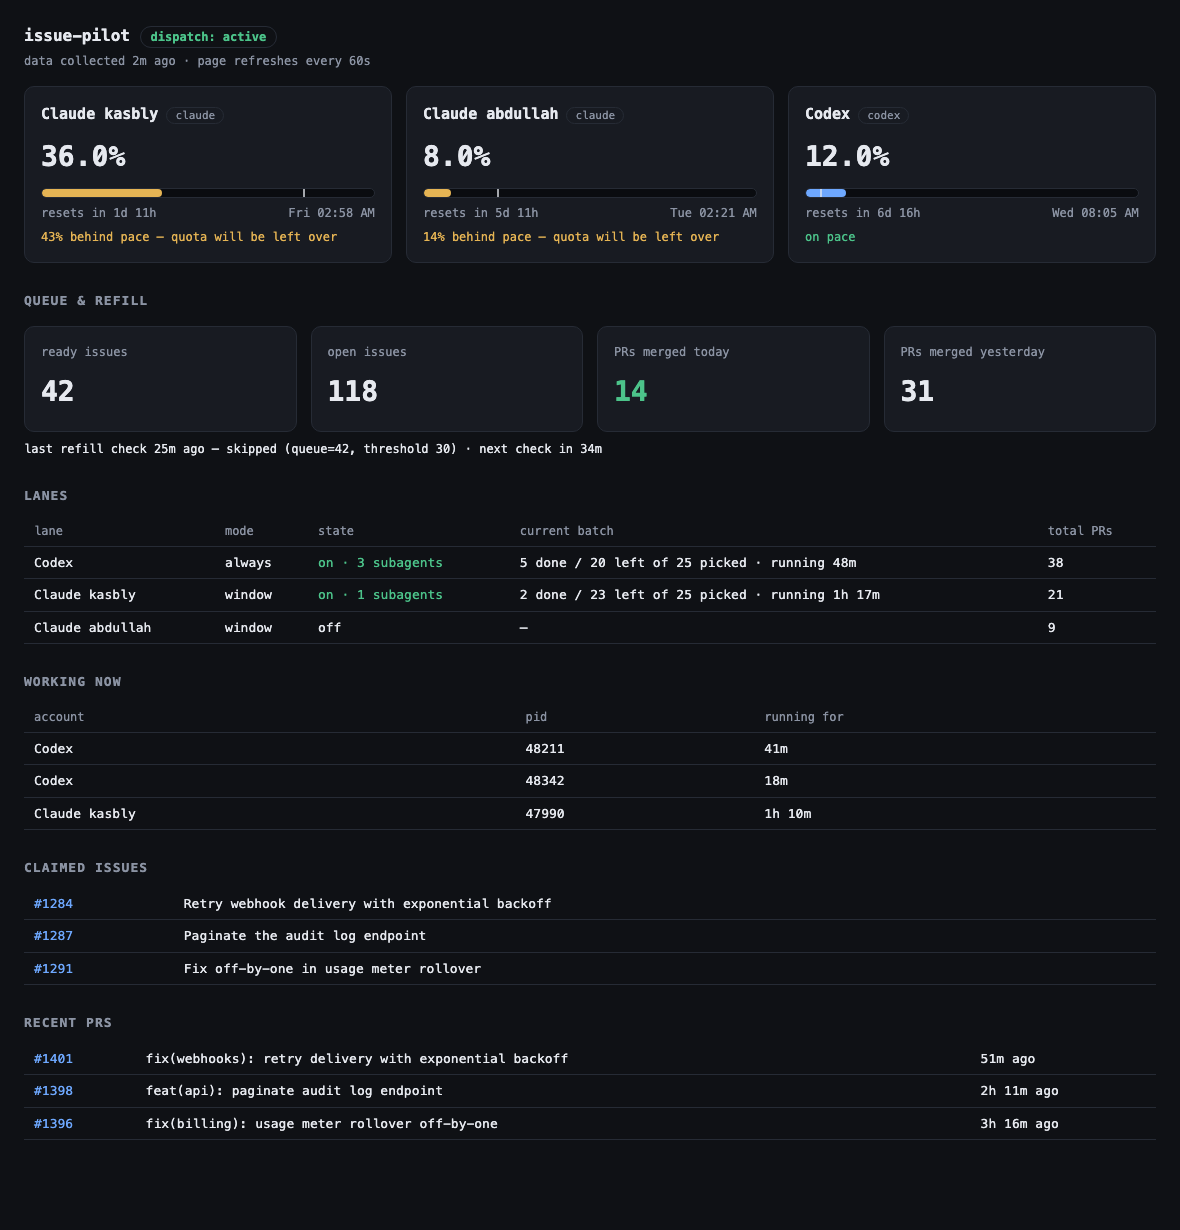
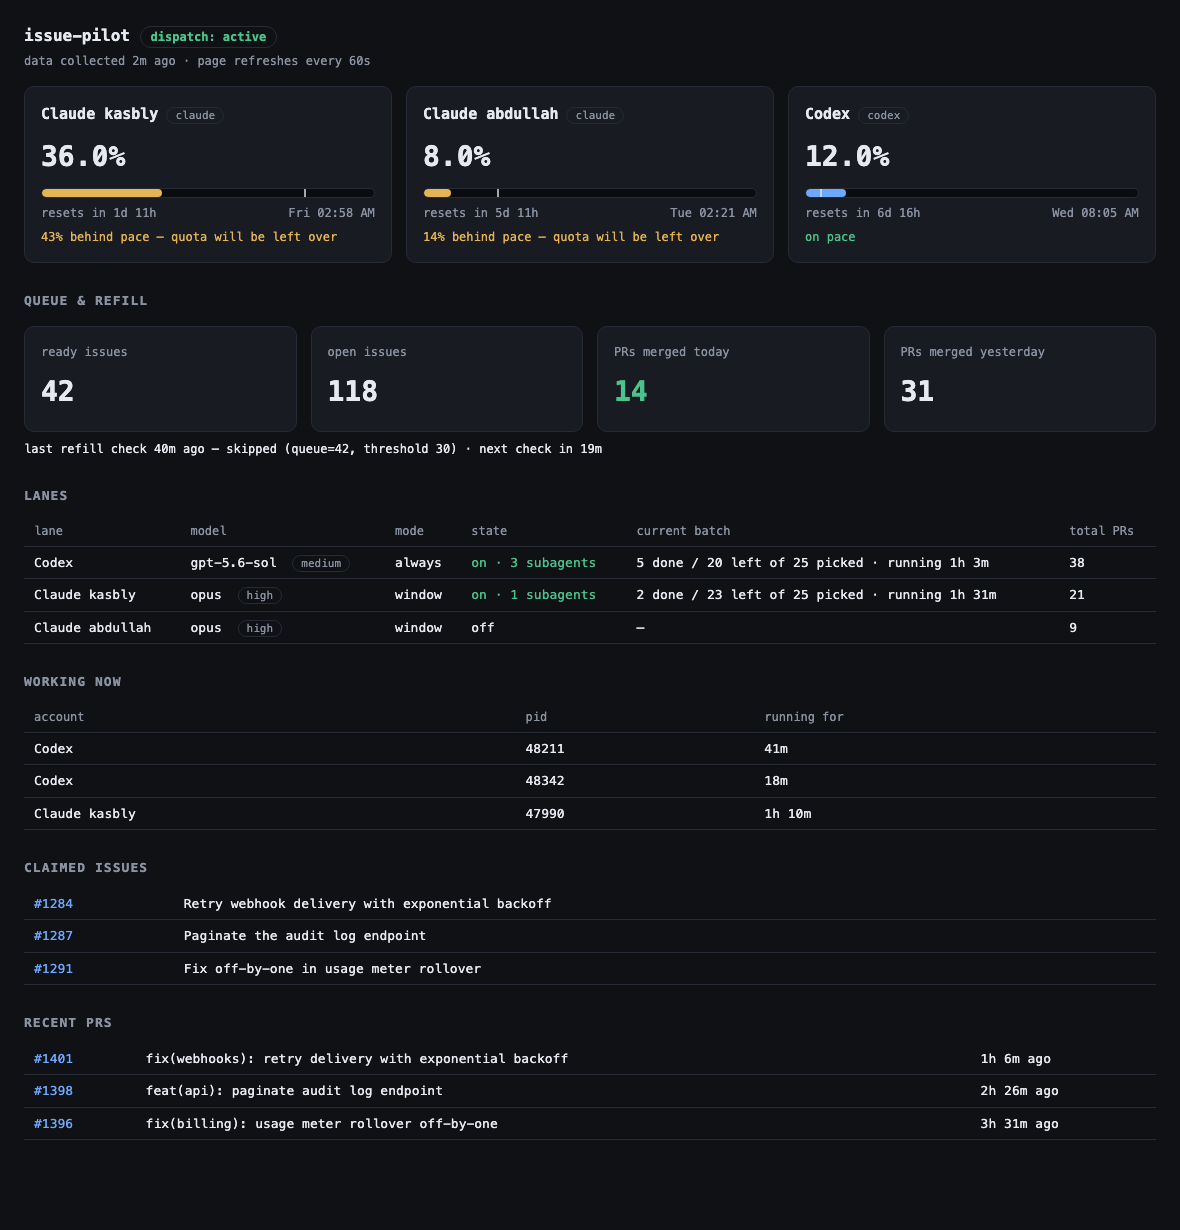
Show per-lane model and effort on status page; pace hourly

diff --git a/web/index.html b/web/index.html
@@ -98,13 +98,14 @@ async function refresh() {
 
   const lanes = s.lanes || [];
   document.getElementById("lanes").innerHTML = lanes.length
-    ? "<table><tr><th>lane</th><th>mode</th><th>state</th><th>current batch</th><th>total PRs</th></tr>" +
+    ? "<table><tr><th>lane</th><th>model</th><th>mode</th><th>state</th><th>current batch</th><th>total PRs</th></tr>" +
       lanes.map(l => {
         const on = l.concurrency > 0;
         const batch = (on && l.batch_started)
           ? `${l.batch_done} done / ${Math.max(l.batch_target - l.batch_done, 0)} left of ${l.batch_target} picked · running ${fmtDur(now - l.batch_started)}`
           : "—";
-        return `<tr><td>${esc(l.label)}</td><td>${esc(l.mode)}</td>
+        const model = l.model ? esc(l.model) + (l.effort ? ` <span class="kind">${esc(l.effort)}</span>` : "") : "—";
+        return `<tr><td>${esc(l.label)}</td><td>${model}</td><td>${esc(l.mode)}</td>
           <td class="${on ? "ok" : ""}">${on ? `on · ${l.concurrency} subagents` : "off"}</td>
           <td>${batch}</td><td>${l.total_done}</td></tr>`;
       }).join("") + "</table>"
